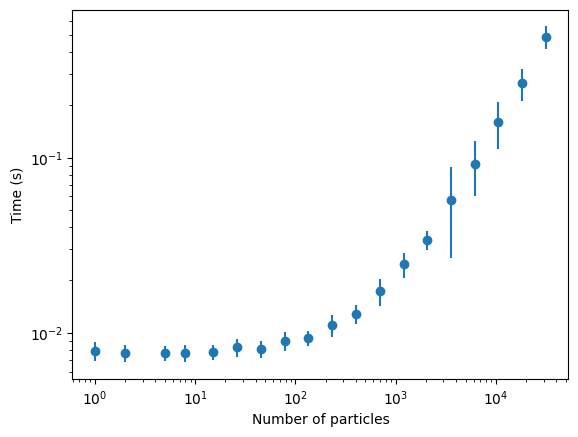
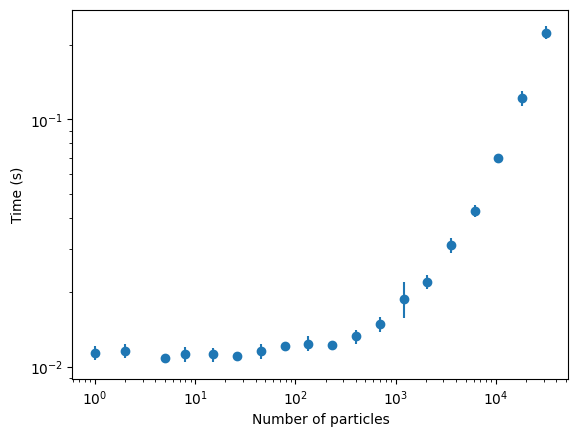
Update benchmark plot

diff --git a/toytrack/event_generator.py b/toytrack/event_generator.py
@@ -152,7 +152,7 @@ class EventGenerator:
         """
         Helper method to generate a value based on the input which can be a float or a tuple.
         """
-        if isinstance(value, float):
+        if isinstance(value, int) or isinstance(value, float):
             return value
         elif isinstance(value, tuple):
             if len(value) == 2:
